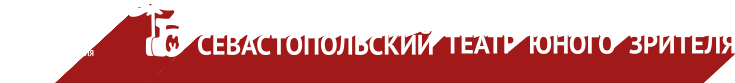
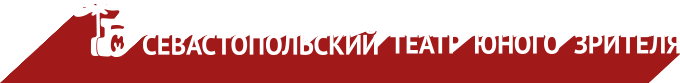
feature: изменения в хедере.

diff --git a/templates/_partial/tob_bar.html b/templates/_partial/tob_bar.html
@@ -1,13 +1,30 @@
 {% load staticfiles %}
 {% load project_tags %}
 
+{% header_settings as header_settings %}
 <div class="u-header__section u-header__section--hidden g-bg-red bvi-hide">
     <div class="container">
         <div class="row">
-            <div class="col-md-10 text-center g-pt-10">
-                <a href="/"><img src="{% static "assets/img/header/sevtuz.png" %}" alt="" class="w-100"></a>
+            <div class="col-md-10">
+                <div class="row no-gutters">
+                    <div class="col-md-2 text-center g-pt-10 g-pt-30--md g-pb-0 g-pb-10--md g-pr-10--md g-pr-0--lg">
+                        {% if header_settings.header_data.ukgs_link %}
+                            <a href="{{ header_settings.header_data.ukgs_link }}" rel="noopener"><img
+                                    src="{% static "assets/img/logo/ukgs.png" %}" alt="" class="img-fluid"></a>
+                        {% else %}
+                            <a href="#" rel="noopener"><img src="{% static "assets/img/logo/ukgs.png" %}" alt=""
+                                                            class="img-fluid"></a>
+                        {% endif %}
+                    </div>
+
+                    <div class="col-md-10 text-center g-pt-10">
+                        <a href="/"><img src="{% static "assets/img/header/sevtuz.png" %}" alt=""
+                                         class="img-fluid w-100"></a>
+                    </div>
+                </div>
             </div>
-            <div class="col-md-2 text-center g-pt-10 g-pb-20 g-pb-0--md">
+
+            <div class="col-md-2 text-center g-pt-10 g-pb-20 g-pb-10--md">
                 <div class="row">
                     <div class="col-12">
                         <a href="#" class="bvi-panel-open g-font-size-14 g-color-white">A</a>
@@ -17,10 +34,10 @@
                 </div>
                 <div class="row">
                     <div class="col-12">
-                        {% header_settings as header_settings %}
                         {% if header_settings.header_data.buy_ticket_link %}
-                            <a href="{{ header_settings.header_data.buy_ticket_link }}"><img src="{% static "assets/img/header/buy-ticket.png" %}" alt=""
-                                             class="img-fluid"></a>
+                            <a href="{{ header_settings.header_data.buy_ticket_link }}"><img
+                                    src="{% static "assets/img/header/buy-ticket.png" %}" alt=""
+                                    class="img-fluid"></a>
                         {% else %}
                             <a href="#"><img src="{% static "assets/img/header/buy-ticket.png" %}" alt=""
                                              class="img-fluid"></a>

diff --git a/apps/settings/migrations/0008_headersettings_ukgs_link.py b/apps/settings/migrations/0008_headersettings_ukgs_link.py
@@ -1,0 +1,20 @@
+# -*- coding: utf-8 -*-
+# Generated by Django 1.11.7 on 2018-01-10 14:52
+from __future__ import unicode_literals
+
+from django.db import migrations, models
+
+
+class Migration(migrations.Migration):
+
+    dependencies = [
+        ('settings', '0007_headersettings'),
+    ]
+
+    operations = [
+        migrations.AddField(
+            model_name='headersettings',
+            name='ukgs_link',
+            field=models.URLField(blank=True, null=True, verbose_name='Ссылка на страницу "Главное управление культуры города Севастополя""'),
+        ),
+    ]

diff --git a/apps/settings/models.py b/apps/settings/models.py
@@ -14,6 +14,11 @@ class FooterSettings(models.Model):
 class HeaderSettings(models.Model):
     """Настройки хедера."""
     buy_ticket_link = models.URLField('Ссылка на страницу "Купить билет"', null=True, blank=True)
+    ukgs_link = models.URLField(
+        'Ссылка на страницу "Главное управление культуры города Севастополя""',
+        null=True,
+        blank=True
+    )
 
     class Meta:
         verbose_name = 'Header'
